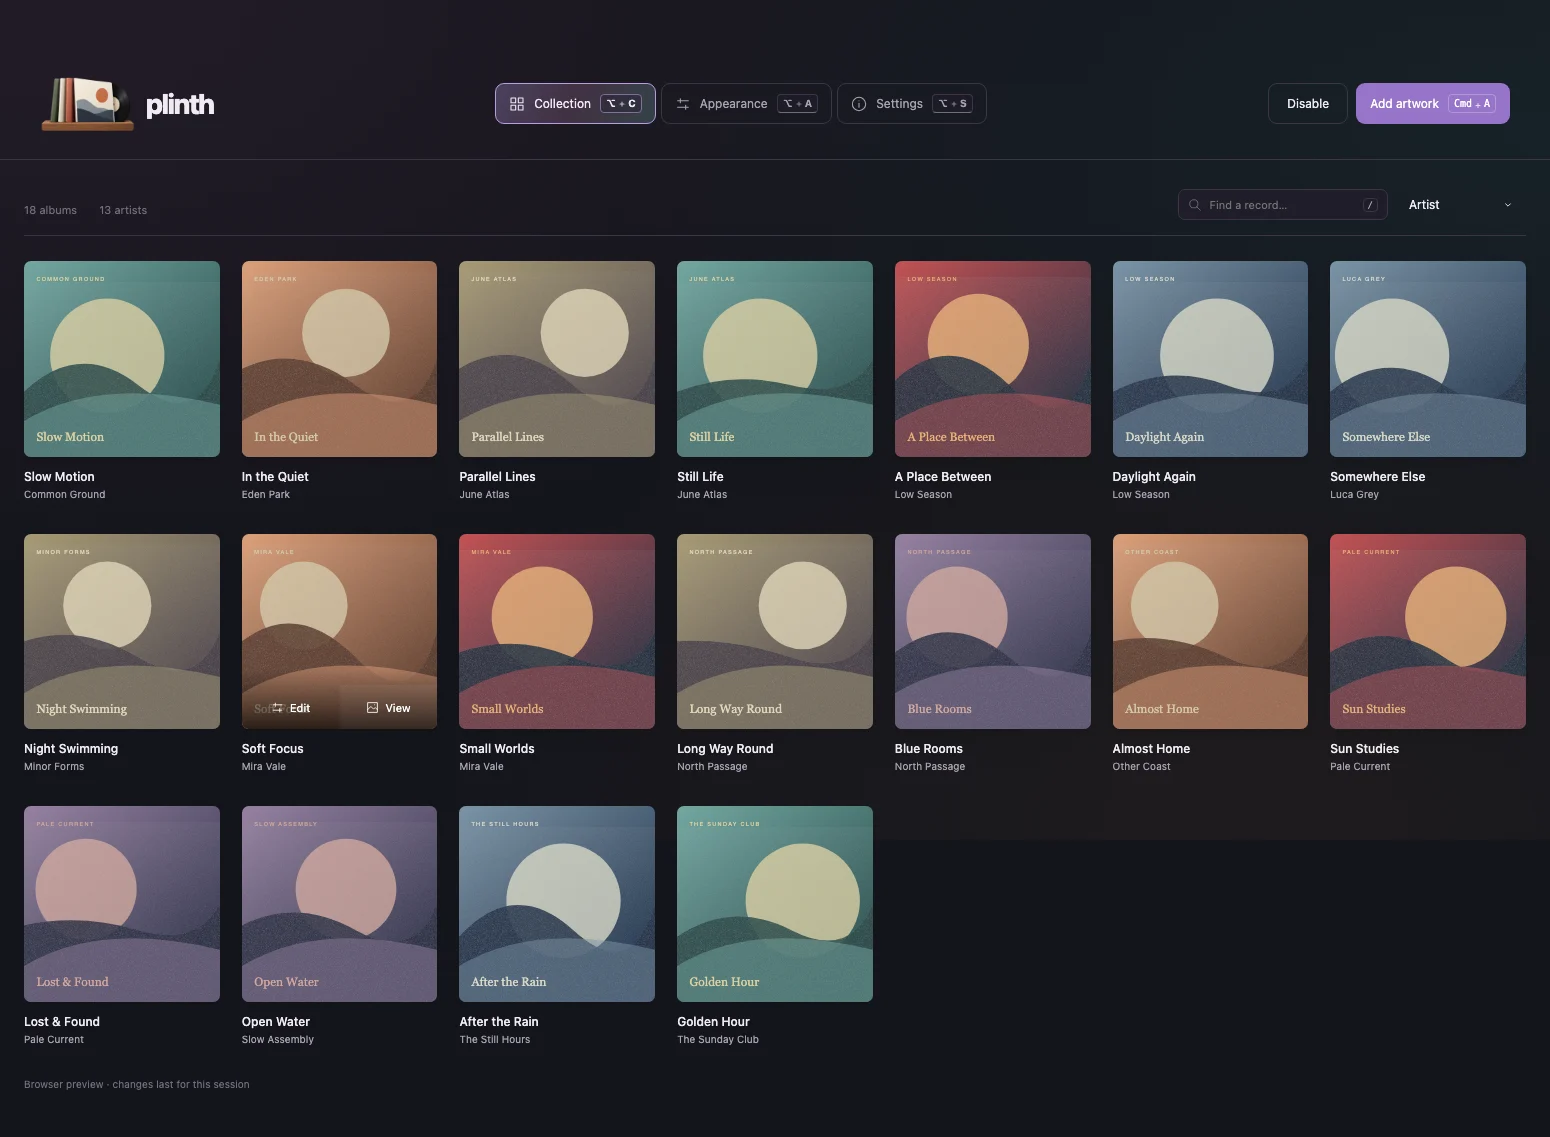
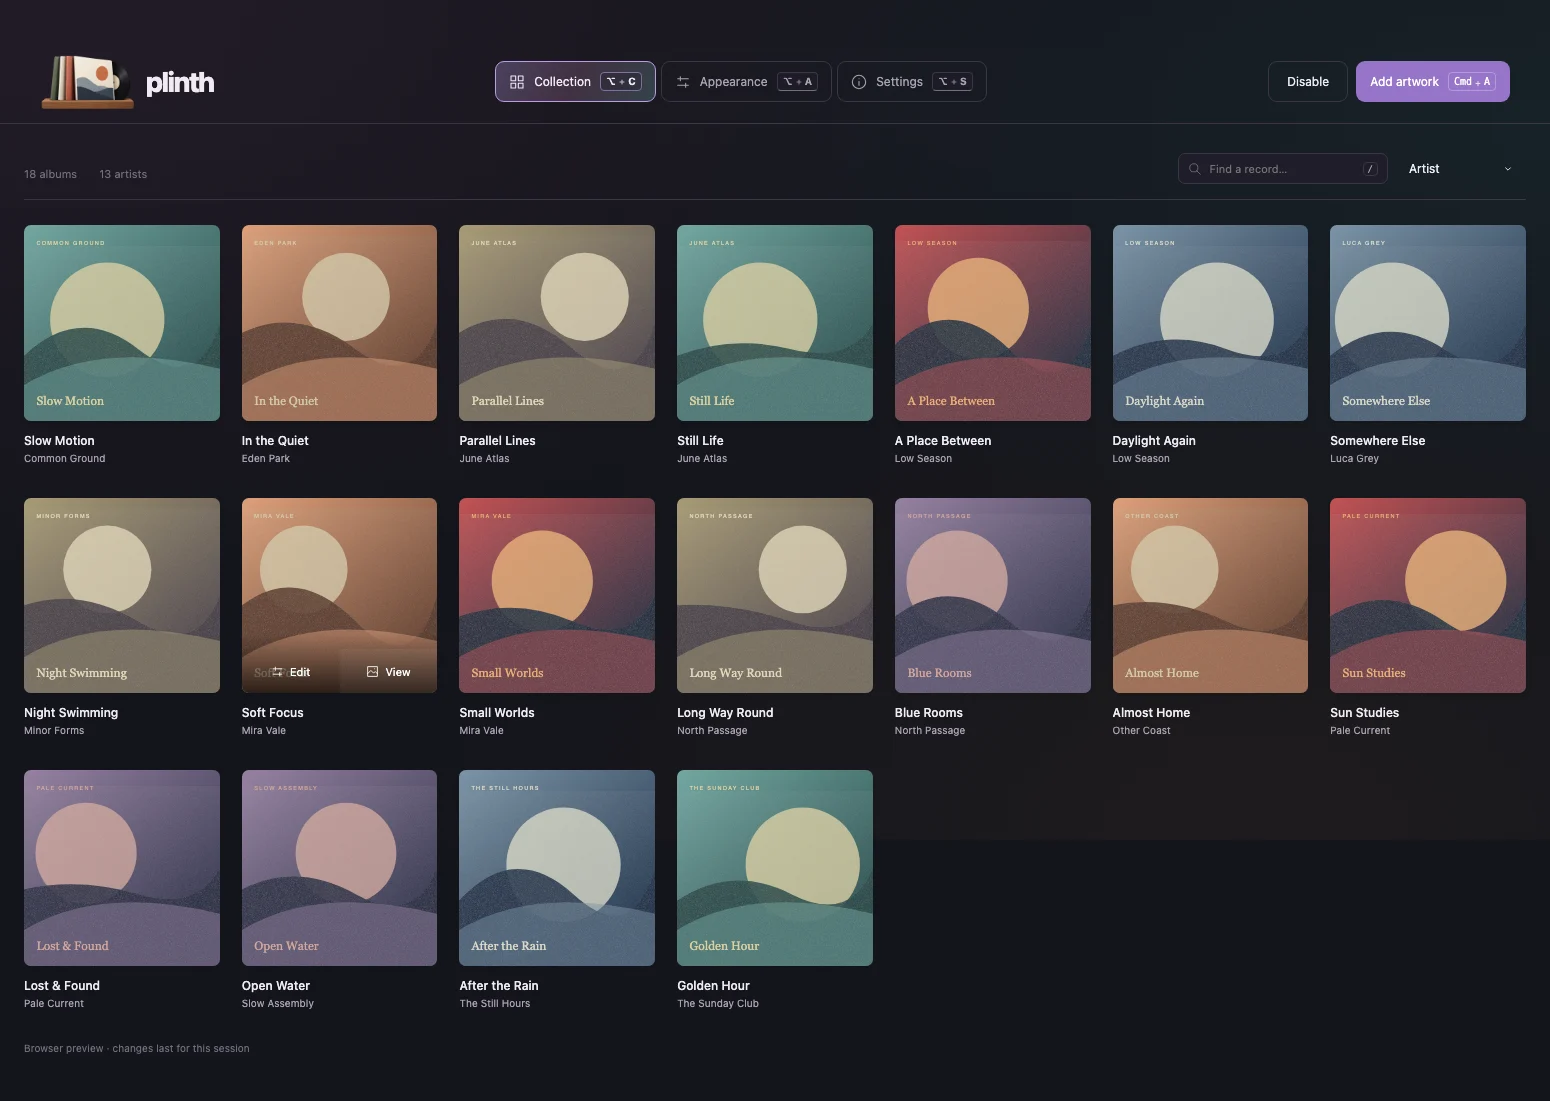
Tighten header spacing below window controls

diff --git a/src/app.css b/src/app.css
@@ -1,7 +1,7 @@
 *{box-sizing:border-box} :root{font-family:-apple-system,BlinkMacSystemFont,'Segoe UI',sans-serif;font-size:14px;color-scheme:dark;--background:radial-gradient(ellipse at 5% 0%,#58334d38,transparent 48%),radial-gradient(ellipse at 100% 15%,#28686829,transparent 44%),radial-gradient(ellipse at 80% 100%,#65482d21,transparent 48%),#14151c;--paper:#201d29e6;--paper-strong:#292531;--ink:#f0ebf3;--muted:#aaa1b3;--faint:#726d7e;--line:#3c3547;--accent:#b99ce7;--accent-bg:#9774c9;--danger:#ef9baa}
 :root[data-theme=light]{color-scheme:light;--background:radial-gradient(ellipse at 0% 0%,#efdce9,transparent 55%),radial-gradient(ellipse at 100% 10%,#dcefee,transparent 50%),#f7f5f3;--paper:#fffdfcd9;--paper-strong:#f0ebf1;--ink:#2b2632;--muted:#7f7387;--faint:#93899a;--line:#dfd6e4;--accent:#74509e;--accent-bg:#805ba9;--danger:#a94057}
 body{margin:0;background:var(--background);background-attachment:fixed;color:var(--ink);min-width:360px}button,input,select{font:inherit}button,select{cursor:pointer}button{display:inline-flex;align-items:center;justify-content:center;gap:9px;border:1px solid var(--line);border-radius:9px;background:transparent;color:var(--ink);padding:10px 14px;transition:background .15s,border-color .15s}button:hover:not(:disabled){background:var(--paper-strong);border-color:var(--faint)}button:disabled{opacity:.5;cursor:default}button.primary{background:var(--accent-bg);border-color:transparent;color:#fff}button.primary:hover:not(:disabled){background:color-mix(in srgb,var(--accent-bg) 85%,white)}button.icon-only{width:34px;height:34px;padding:7px;border-color:transparent;background:transparent}button.text-button{padding:0;border:0;color:var(--accent);background:none;font-size:12px}button:focus-visible,a:focus-visible,input:focus-visible,select:focus-visible{outline:1px solid var(--faint);outline-offset:2px}svg{display:block;flex:0 0 auto}h1,h2,h3,p{margin:0}h1{font-size:34px;font-weight:550;letter-spacing:-1.2px;line-height:1.3}h2{font-size:17px;font-weight:550;letter-spacing:-.3px}small{font-size:12px;color:var(--muted)}input,select{border:1px solid var(--line);background:var(--paper);color:var(--ink);border-radius:8px;padding:10px 12px;min-width:0}select{font-size:12px}label{display:grid;gap:8px;font-size:12px}a{color:inherit;text-decoration:none}kbd{font:10px ui-monospace,monospace;padding:3px 5px;border:1px solid var(--line);border-radius:4px;color:var(--muted)}kbd.shortcut{display:inline-flex;align-items:center;gap:3px;white-space:nowrap}.shortcut-plus{opacity:.75;transform:translateY(1.5px)}
-.titlebar{height:34px;padding:0 27px 0 86px;display:flex;align-items:center;justify-content:space-between;color:var(--faint);font-size:10px;letter-spacing:.2px;user-select:none}.local-indicator{display:flex;gap:6px;align-items:center}.local-indicator>span{width:4px;height:4px;border-radius:50%;background:#85b7a0}header{height:112px;border-bottom:1px solid var(--line);display:flex;align-items:center;justify-content:space-between;gap:24px;padding:0 40px}.header-actions{display:flex;align-items:stretch;gap:8px;flex-shrink:0}.header-actions>button{font-size:12px;padding:10px 13px}.brand{display:flex;align-items:center;gap:10px;font-size:28px;font-weight:760;letter-spacing:-1.4px}.brand-mark{--brand-logo-size:40px;display:flex;align-items:center;justify-content:center;flex-shrink:0;width:var(--brand-logo-size);height:40px}.brand-mark[data-logo="logo-1"]{--brand-logo-size:96px}.brand-mark[data-logo="logo-2"]{--brand-logo-size:72px;margin-right:-8px}.brand-mark svg{width:var(--brand-logo-size);height:var(--brand-logo-size);align-self:center}.version{font-size:9px;font-weight:400;letter-spacing:0;color:var(--faint);align-self:start;padding-top:6px}nav{display:flex;gap:5px}nav button{font-size:12px;border-color:var(--line);padding:10px 13px;color:var(--muted)}nav button:not(.active){background:transparent}nav button.active,nav button.active:hover:not(:disabled){background:linear-gradient(115deg,color-mix(in srgb,var(--accent) 28%,var(--paper)),color-mix(in srgb,#c882ab 20%,var(--paper)) 48%,color-mix(in srgb,#72bab5 24%,var(--paper)));border-color:var(--accent);color:var(--ink)}nav button>svg{width:16px;height:16px}main{max-width:1440px;margin:0 auto;padding:40px 44px 0}.page-heading{display:flex;justify-content:space-between;align-items:center;gap:20px;margin-bottom:36px}.eyebrow{display:block;color:var(--faint);font-size:9px;letter-spacing:1.7px;font-weight:550;margin-bottom:10px}.page-heading p{margin-top:9px;font-size:13px;color:var(--muted);line-height:1.6}.status-pill{font-size:11px;border-radius:22px;padding:9px 13px;background:var(--paper);color:var(--muted);white-space:nowrap}.status-pill svg{width:12px;height:12px;margin-left:5px}.status-dot{width:6px;height:6px;border-radius:50%;background:#83c9ac;box-shadow:0 0 8px #83c9ac22}.paused .status-dot{background:var(--faint)}
+.titlebar{height:34px;padding:0 27px 0 86px;display:flex;align-items:center;justify-content:space-between;color:var(--faint);font-size:10px;letter-spacing:.2px;user-select:none}.local-indicator{display:flex;gap:6px;align-items:center}.local-indicator>span{width:4px;height:4px;border-radius:50%;background:#85b7a0}header{height:84px;border-bottom:1px solid var(--line);display:flex;align-items:center;justify-content:space-between;gap:24px;padding:0 40px}.header-actions{display:flex;align-items:stretch;gap:8px;flex-shrink:0}.header-actions>button{font-size:12px;padding:10px 13px}.brand{display:flex;align-items:center;gap:10px;font-size:28px;font-weight:760;letter-spacing:-1.4px}.brand-mark{--brand-logo-size:40px;display:flex;align-items:center;justify-content:center;flex-shrink:0;width:var(--brand-logo-size);height:40px}.brand-mark[data-logo="logo-1"]{--brand-logo-size:96px}.brand-mark[data-logo="logo-2"]{--brand-logo-size:72px;margin-right:-8px}.brand-mark svg{width:var(--brand-logo-size);height:var(--brand-logo-size);align-self:center}.version{font-size:9px;font-weight:400;letter-spacing:0;color:var(--faint);align-self:start;padding-top:6px}nav{display:flex;gap:5px}nav button{font-size:12px;border-color:var(--line);padding:10px 13px;color:var(--muted)}nav button:not(.active){background:transparent}nav button.active,nav button.active:hover:not(:disabled){background:linear-gradient(115deg,color-mix(in srgb,var(--accent) 28%,var(--paper)),color-mix(in srgb,#c882ab 20%,var(--paper)) 48%,color-mix(in srgb,#72bab5 24%,var(--paper)));border-color:var(--accent);color:var(--ink)}nav button>svg{width:16px;height:16px}main{max-width:1440px;margin:0 auto;padding:40px 44px 0}.page-heading{display:flex;justify-content:space-between;align-items:center;gap:20px;margin-bottom:36px}.eyebrow{display:block;color:var(--faint);font-size:9px;letter-spacing:1.7px;font-weight:550;margin-bottom:10px}.page-heading p{margin-top:9px;font-size:13px;color:var(--muted);line-height:1.6}.status-pill{font-size:11px;border-radius:22px;padding:9px 13px;background:var(--paper);color:var(--muted);white-space:nowrap}.status-pill svg{width:12px;height:12px;margin-left:5px}.status-dot{width:6px;height:6px;border-radius:50%;background:#83c9ac;box-shadow:0 0 8px #83c9ac22}.paused .status-dot{background:var(--faint)}
 .collection-toolbar{display:flex;align-items:center;justify-content:space-between;gap:20px;border-bottom:1px solid var(--line);margin-bottom:25px;min-height:52px}.collection-tabs{display:flex;align-items:center;gap:22px;align-self:stretch}.collection-meta{display:flex;align-items:center;font-size:11px;color:var(--faint)}.toolbar-right{display:flex;gap:10px;align-items:center;padding-bottom:10px}.toolbar-right select{border-color:transparent;background:transparent;padding-right:5px}.search{display:flex;align-items:center;gap:8px;border:1px solid var(--line);background:var(--paper);border-radius:7px;padding:0 9px;color:var(--faint)}.search>svg{width:14px;height:14px}.search input{width:145px;border:0;background:none;padding:8px 0;font-size:11px}.search kbd{padding:1px 4px;font-size:9px}.album-grid{display:grid;grid-template-columns:repeat(6,minmax(0,1fr));gap:26px 22px}.album-card{min-width:0;position:relative}.artwork{display:block;position:relative;width:100%;padding:0;border:0;border-radius:7px;background:var(--paper-strong);aspect-ratio:1;box-shadow:0 5px 10px #0002;overflow:hidden;transition:transform .2s,box-shadow .2s}.album-edit:hover .artwork{box-shadow:0 8px 20px #0004}.artwork img{width:100%;height:100%;object-fit:cover;display:block}.album-edit{display:block;width:100%;padding:0;border:0;border-radius:0;text-align:left}.album-edit:hover:not(:disabled){background:transparent}.artwork-edit{position:absolute;bottom:0;left:0;width:50%;height:44px;color:#fff;font-size:11px;display:flex;gap:6px;align-items:center;justify-content:center;opacity:0;transition:opacity .2s;z-index:1}.artwork::after{content:"";position:absolute;inset:auto 0 0;height:60px;background:linear-gradient(transparent,#000b);opacity:0;transition:opacity .2s;pointer-events:none}.artwork-edit svg,.collection-view svg{width:13px;height:13px}.album-card:hover .artwork-edit,.album-card:focus-within .artwork-edit,.album-card:hover .artwork::after,.album-card:focus-within .artwork::after,.album-card:hover .collection-view,.album-card:focus-within .collection-view{opacity:1}.collection-artwork-actions{position:absolute;inset:0 0 auto;aspect-ratio:1;pointer-events:none}.collection-view{position:absolute;bottom:0;right:0;width:50%;height:44px;padding:0;border:0;border-radius:0 0 7px 0;color:#fff;font-size:11px;gap:6px;opacity:0;transition:opacity .2s;pointer-events:auto}.collection-view:hover:not(:disabled){background:#ffffff0d}.album-caption{display:block;min-width:0;padding:11px 0 8px}.album-title{display:block;font-size:12px;font-weight:500;letter-spacing:0;overflow:hidden;text-overflow:ellipsis;white-space:nowrap;line-height:1.5}.album-artist{display:block;color:var(--muted);font-size:10px;margin-top:2px;text-overflow:ellipsis;overflow:hidden;white-space:nowrap}.album-card.disabled img{opacity:.4}.hidden-label{position:absolute;top:8px;left:8px;border-radius:4px;background:#000b;padding:4px 6px;font-size:9px;color:white}.import-strip{display:flex;align-items:center;justify-content:space-between;gap:16px;margin-top:34px;padding:20px 22px;border:1px dashed var(--line);border-radius:10px}.import-copy{display:flex;align-items:center;gap:15px}.folder-mark{display:grid;place-items:center;width:34px;height:34px;border-radius:8px;background:var(--paper-strong);color:var(--accent)}.import-copy strong{font-size:12px;font-weight:500}.import-copy p{font-size:11px;color:var(--muted);margin-top:5px}.import-strip>button{font-size:11px;padding:8px 10px;white-space:nowrap}.import-strip>button svg{width:13px;height:13px}footer{display:flex;align-items:center;justify-content:space-between;gap:20px;padding:25px 0;color:var(--faint);font-size:10px}footer>span:first-child{display:flex;align-items:center;gap:7px}footer svg{width:14px;height:14px}
 .empty-state{min-height:370px;display:flex;flex-direction:column;align-items:center;justify-content:center;text-align:center;gap:18px}.empty-state .eyebrow{margin:0}.empty-state h2{font-size:25px}.empty-state p{font-size:13px;line-height:1.8;color:var(--muted)}.empty-art{width:64px;height:64px;background:var(--paper);border:1px solid var(--line);border-radius:16px;display:grid;place-items:center;color:var(--accent)}.empty-art svg{width:30px;height:30px}.actions{display:flex;gap:10px}.panel{background:var(--paper);border:1px solid var(--line);border-radius:13px;padding:24px}.panel-heading{display:flex;align-items:center;justify-content:space-between;margin-bottom:21px}.appearance-layout{display:grid;grid-template-columns:minmax(0,1.6fr) minmax(310px,1fr);gap:32px}.preview-column{position:sticky;top:25px;align-self:start}.section-label{display:flex;justify-content:space-between;color:var(--faint);font-size:9px;letter-spacing:1px;margin-bottom:16px}.section-label>span:last-child{letter-spacing:0}.monitor-preview{position:relative;border:6px solid #302c38;border-bottom-width:16px;border-radius:14px;background:radial-gradient(ellipse at 15% 10%,#735c6880,transparent 60%),linear-gradient(140deg,#253543,#202128 55%,#514e40);height:350px;overflow:hidden;box-shadow:0 16px 35px #0002}.preview-menubar{display:flex;gap:8px;align-items:center;font-size:7px;color:#ddd;background:#ffffff0a;height:15px;padding:0 7px}.preview-menubar svg{width:9px;height:9px}.preview-clock{margin-left:auto}.preview-art{display:grid;align-content:start;max-height:calc(100% - 15px);overflow:auto}.preview-art img{width:100%;aspect-ratio:1;object-fit:cover;transition:transform .2s;position:relative}.preview-art img:hover{transform:scale(var(--preview-scale));z-index:10}.preview-empty{font-size:12px;color:#bbb;grid-column:1/-1;padding:80px 0;text-align:center}.preview-dock{position:absolute;bottom:6px;left:50%;transform:translateX(-50%);display:flex;gap:6px;padding:5px 7px;border:1px solid #ffffff22;background:#ffffff18;border-radius:8px;backdrop-filter:blur(12px)}.preview-dock>span{display:block;width:18px;height:18px;border-radius:5px;background:#90b1be88}.preview-dock>span:nth-child(2){background:#b48caf88}.preview-dock>span:nth-child(3){background:#b9b19188}.preview-dock>span:nth-child(4){background:#91b9a988}.monitor-foot{width:100px;height:29px;background:linear-gradient(#302c38,#403b46);margin:0 auto;border-radius:0 0 12px 12px;clip-path:polygon(30% 0,70% 0,77% 82%,100% 90%,100% 100%,0 100%,0 90%,23% 82%)}.preview-note{color:var(--muted);font-size:11px;display:flex;align-items:center;justify-content:center;gap:8px;line-height:1.6;margin:22px 0}.preview-note svg{width:14px;height:14px}.feature-note{display:flex;gap:15px;border-top:1px solid var(--line);padding-top:25px;margin-top:32px;color:var(--muted)}.feature-note>svg{color:var(--accent)}.feature-note strong{font-size:12px;font-weight:500;color:var(--ink)}.feature-note p{font-size:12px;line-height:1.8;margin-top:8px;max-width:390px}.segmented{display:flex;border:1px solid var(--line);border-radius:8px;padding:3px;gap:3px;margin-bottom:9px}.segmented button{flex:1;padding:7px 4px;font-size:11px;border:0;border-radius:5px;color:var(--muted)}.segmented button.chosen{background:var(--paper-strong);color:var(--ink)}.field-note{font-size:11px;color:var(--muted);line-height:1.7}.slider-field{margin-top:20px;gap:9px}.slider-field>span{display:flex;justify-content:space-between;font-size:12px}.slider-field output{font:11px ui-monospace,monospace;color:var(--muted)}input[type=range]{width:100%;height:4px;margin:5px 0;padding:0;accent-color:var(--accent);cursor:pointer}.toggle-row{display:flex;align-items:center;justify-content:space-between;gap:20px;margin-top:22px;font-size:12px}.toggle-row small{display:block;font-size:10px;color:var(--muted);margin-top:6px}.switch{appearance:none;flex:0 0 auto;width:32px;height:19px;border-radius:20px;padding:0;background:var(--line);border:0;position:relative;cursor:pointer}.switch:after{content:'';display:block;width:13px;height:13px;border-radius:50%;background:#fff;position:absolute;top:3px;left:3px;transition:transform .15s}.switch:checked{background:var(--accent-bg)}.switch:checked:after{transform:translateX(13px)}.control-divider{border-top:1px solid var(--line);margin-top:26px}.settings-grid{display:grid;grid-template-columns:1fr 1fr;gap:22px}.settings-panel h2{margin-bottom:12px;font-size:20px}.settings-panel>p.description{font-size:13px;line-height:1.85;color:var(--muted);margin-bottom:24px}.setting-row{display:flex;align-items:center;justify-content:space-between;gap:16px;margin:25px 0}.setting-row select{max-width:60%}.storage-summary{display:flex;gap:45px;margin:24px 0 30px;color:var(--muted);font-size:11px}.storage-summary strong{display:block;font-size:30px;color:var(--ink);font-weight:500;letter-spacing:-1px;margin-bottom:6px}.settings-panel>button{font-size:12px;margin-bottom:15px}.shortcut-row{border-top:1px solid var(--line);padding-top:16px;margin-bottom:20px;display:flex;align-items:center;justify-content:space-between;font-size:12px}
 .banner{margin:15px 44px 0;border:1px solid #cf739066;border-radius:8px;padding:10px 14px;font-size:12px;display:flex;align-items:center;justify-content:space-between;gap:16px}.banner.error{color:var(--danger);background:var(--paper)}.banner>span{white-space:pre-wrap;max-height:140px;overflow:auto}.toast{position:fixed;bottom:24px;left:50%;transform:translateX(-50%);z-index:80;padding:13px 18px;border:1px solid var(--line);border-radius:10px;background:var(--paper-strong);box-shadow:0 10px 40px #0004;display:flex;align-items:center;gap:10px;font-size:12px;max-width:90vw}.toast svg{color:#83c9ac}.drop-overlay{position:fixed;inset:8px;z-index:100;border:2px dashed var(--accent);border-radius:15px;background:#211c2bed;backdrop-filter:blur(15px);display:flex;flex-direction:column;align-items:center;justify-content:center;gap:22px;pointer-events:none}.drop-overlay>svg{width:45px;height:45px;color:var(--accent)}.drop-overlay p{color:var(--muted)}.import-progress{position:fixed;bottom:25px;left:50%;transform:translateX(-50%);z-index:90;background:var(--paper-strong);border:1px solid var(--line);border-radius:10px;padding:15px 22px;font-size:12px;display:flex;gap:12px;align-items:center}.import-progress>span{width:13px;height:13px;border-radius:50%;border:2px solid var(--line);border-top-color:var(--accent);animation:spin 1s linear infinite}@keyframes spin{to{transform:rotate(360deg)}}.visually-hidden{position:absolute;width:1px;height:1px;clip-path:inset(50%);overflow:hidden;white-space:nowrap}
@@ -16,7 +16,7 @@ dialog{width:min(510px,calc(100vw - 40px));padding:26px;border:1px solid var(--l
 .settings-compact{max-width:660px;margin:0 auto;padding:4px 26px}.settings-compact .setting-row{margin:0;padding:24px 0;min-height:78px;font-size:13px}.settings-compact .setting-row+.setting-row{border-top:1px solid var(--line)}.settings-compact .setting-row>button{font-size:12px}.appearance-options{display:flex;gap:20px}.appearance-option{display:flex;flex-direction:column;gap:7px;padding:3px;border:0;background:none!important;font-size:10px;color:var(--muted)}.appearance-option .appearance-circle{border-radius:50%;padding:2px;width:34px;height:34px}.appearance-option.chosen .appearance-circle{outline:2px solid var(--accent);outline-offset:2px}.appearance-option.chosen{color:var(--ink)}.collection-toolbar .status-pill{font-size:10px;padding:7px 10px}.settings-compact+.footer{max-width:660px}.app-shell main{padding-top:24px}.settings-compact{margin-top:10px;margin-bottom:28px}
 
 /* Reserve the native window-control row even at the minimum window width. */
-.titlebar{display:block;cursor:default;height:48px;width:100%;padding:0;flex-shrink:0}.screen-picker{display:flex;gap:12px;margin-bottom:22px}.screen-picker>button{flex:1;gap:13px;padding:16px;color:var(--muted);justify-content:flex-start;background:var(--paper)}.screen-picker>button.chosen{border-color:var(--accent);color:var(--ink)}.screen-picker>button>span{font-size:12px;text-align:left}.screen-picker small{display:block;font-size:10px;margin-top:6px;color:var(--muted)}.screen-frame{border:6px solid #302c38;border-radius:12px;overflow:hidden;box-shadow:0 14px 35px #0002}.screen-preview{width:100%;position:relative;overflow:hidden;background:radial-gradient(ellipse at 15% 10%,#735c6880,transparent 60%),linear-gradient(140deg,#253543,#202128 55%,#514e40)}.preview-render{position:absolute;left:0;top:0;transform-origin:top left}.preview-render .desktop-cover{cursor:default;background:#fff!important}
+.titlebar{display:block;cursor:default;height:40px;width:100%;padding:0;flex-shrink:0}.screen-picker{display:flex;gap:12px;margin-bottom:22px}.screen-picker>button{flex:1;gap:13px;padding:16px;color:var(--muted);justify-content:flex-start;background:var(--paper)}.screen-picker>button.chosen{border-color:var(--accent);color:var(--ink)}.screen-picker>button>span{font-size:12px;text-align:left}.screen-picker small{display:block;font-size:10px;margin-top:6px;color:var(--muted)}.screen-frame{border:6px solid #302c38;border-radius:12px;overflow:hidden;box-shadow:0 14px 35px #0002}.screen-preview{width:100%;position:relative;overflow:hidden;background:radial-gradient(ellipse at 15% 10%,#735c6880,transparent 60%),linear-gradient(140deg,#253543,#202128 55%,#514e40)}.preview-render{position:absolute;left:0;top:0;transform-origin:top left}.preview-render .desktop-cover{cursor:default;background:#fff!important}
 
 .editor-artwork{position:relative;width:170px;flex:0 0 170px;aspect-ratio:1;border-radius:8px;overflow:hidden;background:var(--paper)}.editor-artwork>img{display:block;width:100%;height:100%;object-fit:contain}.artwork-actions{position:absolute;inset:auto 0 0;display:flex;justify-content:flex-end;gap:5px;padding:20px 7px 7px;background:linear-gradient(transparent,#0008)}.artwork-actions button.icon-only{color:white;background:#24212bd9;border:1px solid #ffffff2b;backdrop-filter:blur(8px)}.artwork-actions button.icon-only:hover{background:#4b415de8}.editor-artwork.replacing>img{opacity:.4}.replacement-progress{position:absolute;inset:40% 0 auto;text-align:center;font-size:12px}
 
